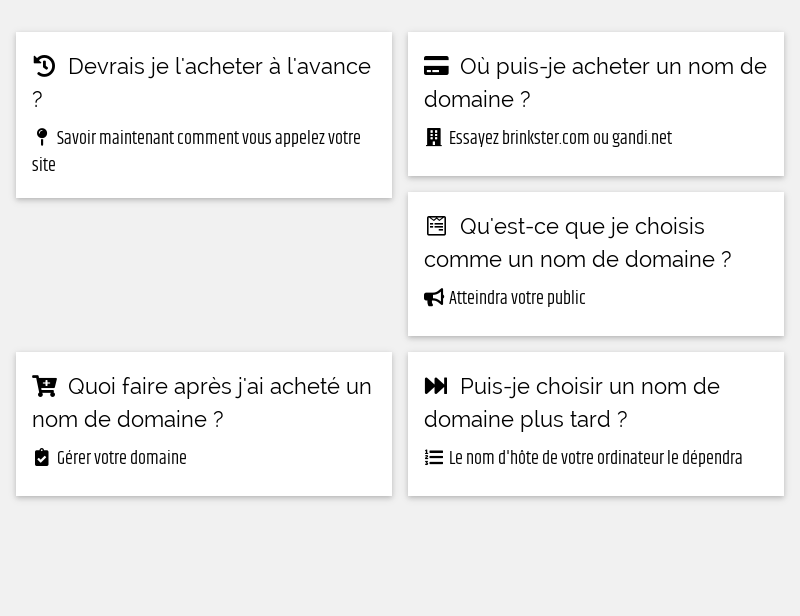
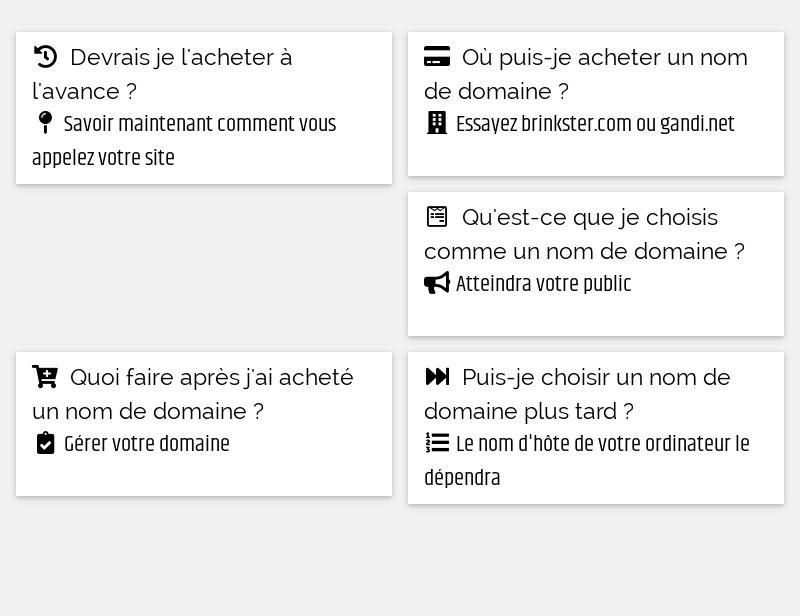
changes

diff --git a/css/site.css b/css/site.css
@@ -4,11 +4,11 @@ h1,h2,h3,h4,h5,h6 { margin: 0; }
 h1,h3,h5 {font-family: "Raleway", sans-serif; }
 h2,h4,h6 {font-family: "Khand", sans-serif; font-weight: bold; }
 h1,.h1 { font-size: 1.7em; }
-h2,.h2 { font-size: 1.2em; }
-h3,.h3 { font-size: 1.2em; }
-h4,.h4 { font-size: 1.0em; }
+h2,.h2 { font-size: 1.7em; }
+h3,.h3 { font-size: 1.3em; }
+h4,.h4 { font-size: 1.3em; }
 h5,.h5 { font-size: 1.0em; }
-h6,.h6 { font-size: 0.7em; }
+h6,.h6 { font-size: 1.0em; }
 body { font-size: 1.2em; }
 .menu {display: none; }
 .bgimg {
